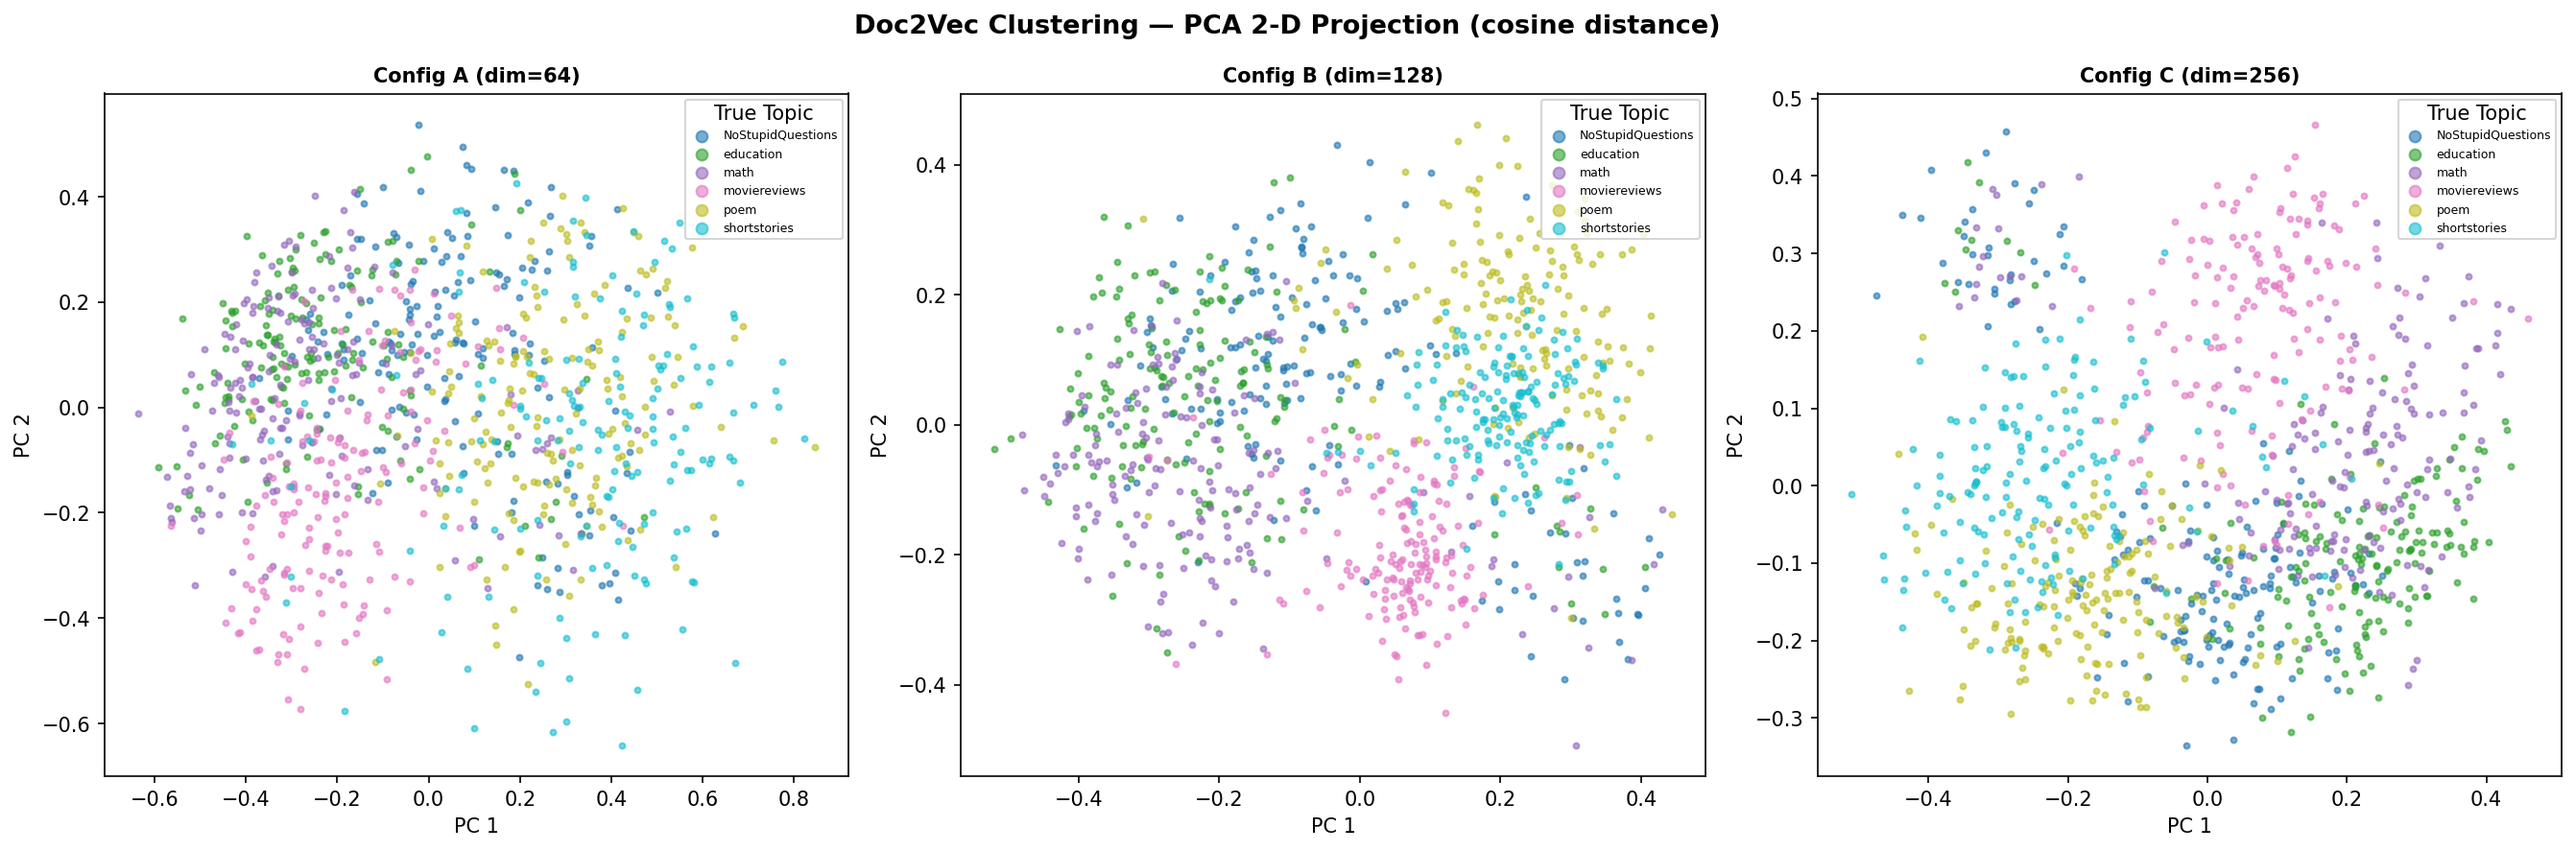
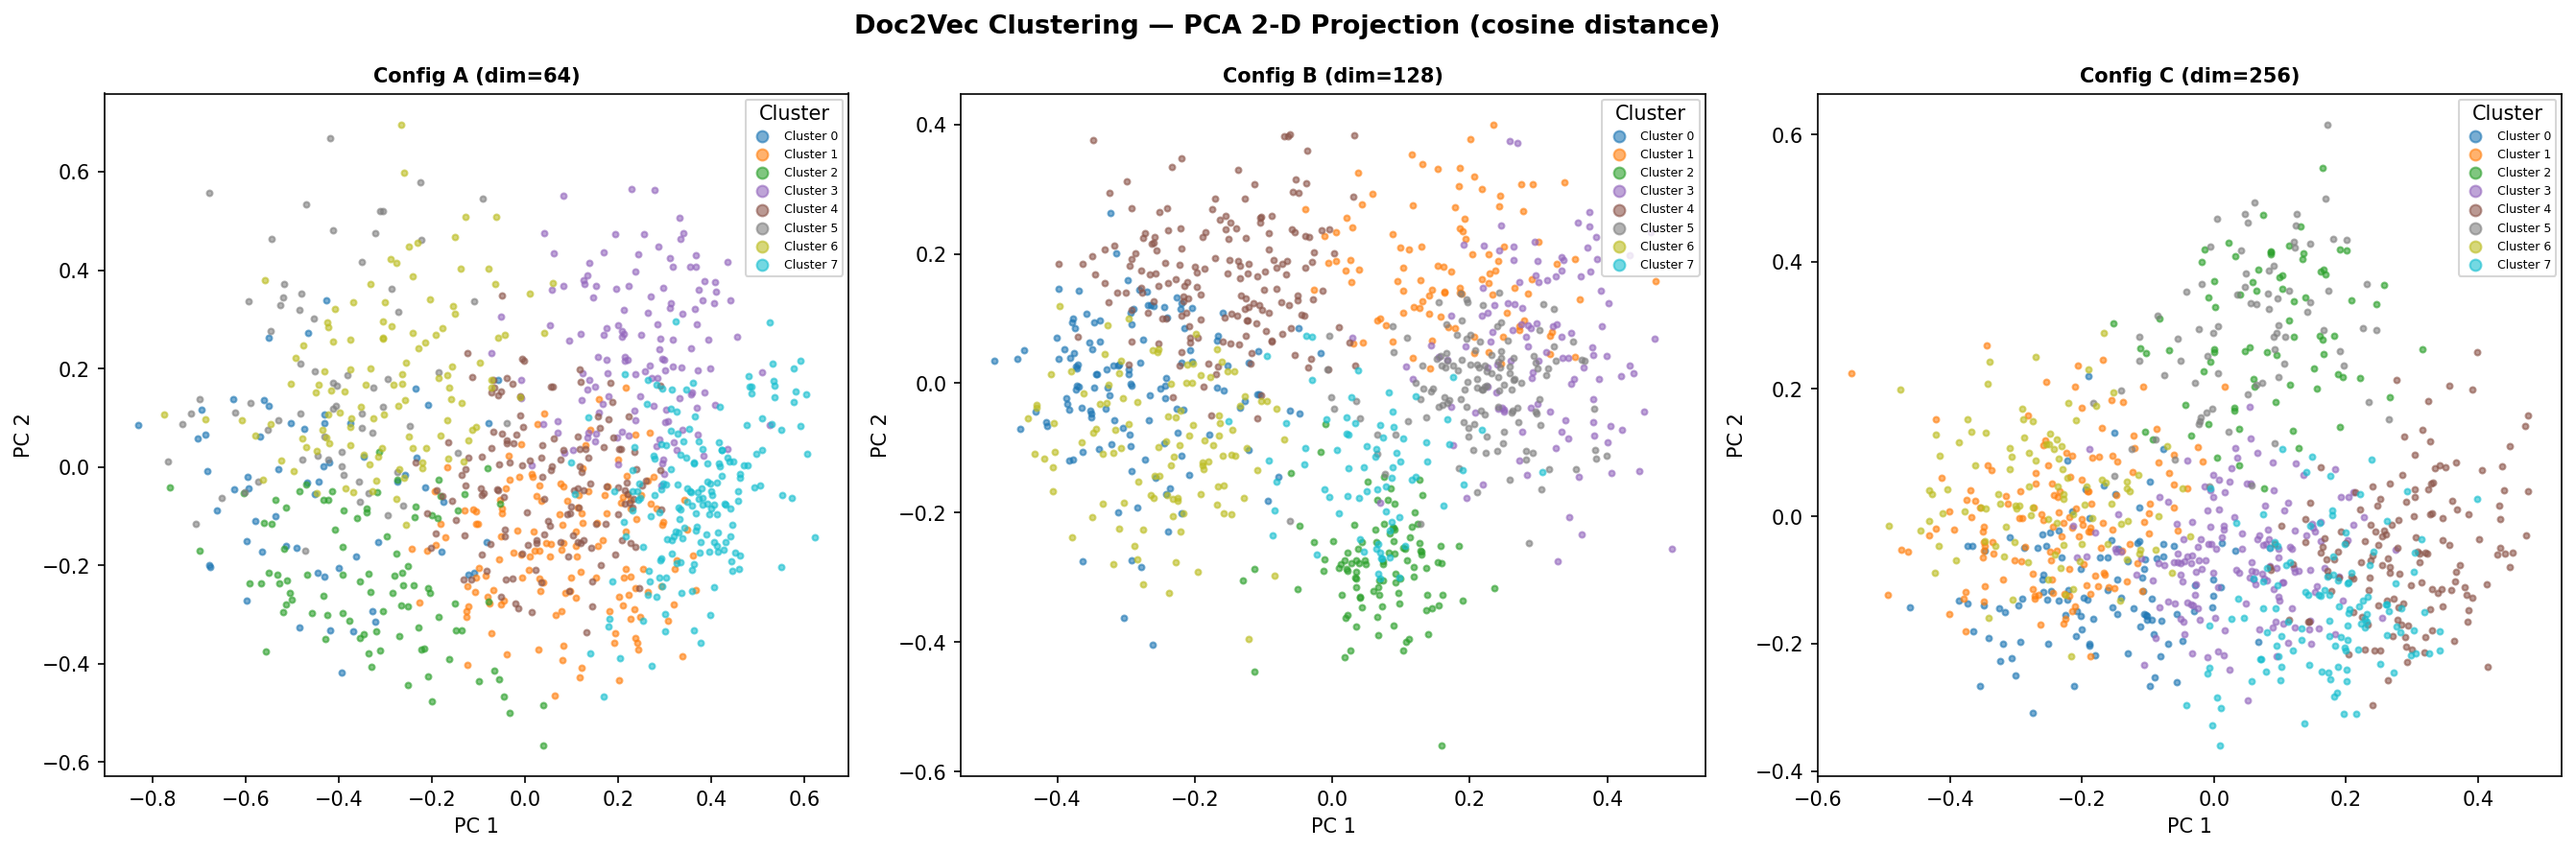
change to 8 clusters

diff --git a/doc2vec.py b/doc2vec.py
@@ -28,7 +28,7 @@ CONFIGS = {
         vector_size=64,
         min_count=2,
         epochs=20,
-        dm=1,        # PV-DM  — uses word-order context
+        dm=1,
         window=5,
         workers=4,
         seed=42,
@@ -37,13 +37,13 @@ CONFIGS = {
         vector_size=128,
         min_count=3,
         epochs=40,
-        dm=0,        # PV-DBOW — faster; often stronger on short social-media posts
+        dm=0,
         workers=4,
         seed=42,
     ),
     "Config C (dim=256)": dict(
         vector_size=256,
-        min_count=1,  # keep rare / niche vocabulary
+        min_count=1,
         epochs=60,
         dm=1,
         window=8,
@@ -53,11 +53,10 @@ CONFIGS = {
 }
 
 def build_tagged_docs(df: pd.DataFrame) -> list[TaggedDocument]:
-    """Convert each row into a gensim TaggedDocument keyed by its integer index."""
     tagged = []
     for idx, row in df.iterrows():
         text = str(row["SELFTEXT"]) if pd.notna(row["SELFTEXT"]) else ""
-        tokens = simple_preprocess(text, deacc=True)   # lowercase, strips punctuation and numbers
+        tokens = simple_preprocess(text, deacc=True)
         tagged.append(TaggedDocument(words=tokens, tags=[str(idx)]))
     return tagged
 
@@ -67,7 +66,6 @@ def train_doc2vec(tagged_docs: list[TaggedDocument], config: dict) -> Doc2Vec:
     model.train(tagged_docs, total_examples=model.corpus_count, epochs=model.epochs)
     return model
 
-
 def extract_vectors(model: Doc2Vec, tagged_docs: list[TaggedDocument]) -> np.ndarray:
     """Return L2-normalised document vectors.
     After L2 normalisation, Euclidean distance == cosine distance,
@@ -75,17 +73,16 @@ def extract_vectors(model: Doc2Vec, tagged_docs: list[TaggedDocument]) -> np.nda
     vecs = np.array([model.dv[doc.tags[0]] for doc in tagged_docs])
     return normalize(vecs, norm="l2")
 
-N_CLUSTERS = 6
+N_CLUSTERS = 8
 def cluster_vectors(vecs: np.ndarray):
     km = KMeans(n_clusters=N_CLUSTERS, random_state=42, n_init=10)
     return km.fit_predict(vecs), km
 
-
 def evaluate(vecs: np.ndarray, labels: np.ndarray) -> dict:
-    sil = silhouette_score(vecs, labels, metric="cosine") # how similar a data point is to its own cluster  compared to other clusters (higher -> better)
-    db  = davies_bouldin_score(vecs, labels) # the average similarity measure of each cluster with its most similar cluster (lower -> better)
+    sil = silhouette_score(vecs, labels, metric="cosine")   # how similar a data point is to its own cluster  compared to other clusters, higher -> better
+    db  = davies_bouldin_score(vecs, labels)                # the average similarity measure of each cluster with its most similar cluster, lower  -> better
 
-    cohesions = [] # average cosine similarity between all pairs of documents within the same cluster(higher -> better)
+    cohesions = []  # avg cosine similarity within each cluster, higher -> better
     for c in np.unique(labels):
         idx = np.where(labels == c)[0]
         if len(idx) < 2:
@@ -103,31 +100,26 @@ def evaluate(vecs: np.ndarray, labels: np.ndarray) -> dict:
         "n_clusters":       int(np.unique(labels).size),
     }
 
-
-def plot_clusters(vecs: np.ndarray, pred_labels: np.ndarray, true_labels: np.ndarray,
+def plot_clusters(vecs: np.ndarray, labels: np.ndarray,
                   title: str, ax: plt.Axes, sample: int = 2000):
-
     # subsample for large datasets
     if len(vecs) > sample:
         idx = np.random.choice(len(vecs), sample, replace=False)
-        vecs, pred_labels, true_labels = vecs[idx], pred_labels[idx], true_labels[idx]
+        vecs, labels = vecs[idx], labels[idx]
 
-    # PCA to 2D and assign colors for visualization
+    # PCA to 2D for visualization
     proj = PCA(n_components=2, random_state=42).fit_transform(vecs)
-    unique_topics = sorted(set(true_labels))
-    topic_colors = {t: cm.tab10(i / max(len(unique_topics) - 1, 1))
-                    for i, t in enumerate(unique_topics)}
 
-    
-    for topic in unique_topics:
-        mask = true_labels == topic # boolean array 
+    for c in range(N_CLUSTERS):
+        mask = labels == c
         ax.scatter(proj[mask, 0], proj[mask, 1], s=8, alpha=0.6,
-                   color=topic_colors[topic], label=topic)
+                   color=cm.tab10(c / max(N_CLUSTERS - 1, 1)),
+                   label=f"Cluster {c}")
 
     ax.set_title(title, fontsize=10, fontweight="bold")
     ax.set_xlabel("PC 1")
     ax.set_ylabel("PC 2")
-    ax.legend(fontsize=6, markerscale=2, loc="upper right", title="True Topic")
+    ax.legend(fontsize=6, markerscale=2, loc="upper right", title="Cluster")
 
 STOPWORDS = {
     "the","a","an","is","it","in","on","of","to","and","or","for","with",
@@ -141,7 +133,6 @@ STOPWORDS = {
     "some","any","other","them","our","through","before","only","still",
     "where","really","something","should","around","back","again","way",
     "me","no","off","never","am","myself","these"
-
 }
 
 def top_terms_per_cluster(df: pd.DataFrame, labels: np.ndarray, n_terms: int = 15) -> dict:
@@ -154,26 +145,27 @@ def top_terms_per_cluster(df: pd.DataFrame, labels: np.ndarray, n_terms: int = 1
         filtered = [t for t in tokens if t not in STOPWORDS and len(t) > 1]
 
         if not filtered:
-            result[c] = {"_empty_cluster": len(idx)}  # report size even if no terms
+            result[c] = {"_empty_cluster": len(idx)}
         else:
             result[c] = pd.Series(filtered).value_counts().head(n_terms).to_dict()
     return result
 
 def main():
-    
     con = get_connection()
     posts_df = get_posts(con)
     con.close()
 
-    # drop nulls 
+    # drop nulls
     posts_df = posts_df[posts_df["SELFTEXT"].notna()].reset_index(drop=True)
-    
+    posts_df = posts_df[posts_df["SELFTEXT"] != "None"].reset_index(drop=True)
+    posts_df = posts_df[posts_df["SELFTEXT"].str.strip() != ""].reset_index(drop=True)
+    print(f"Total posts after cleaning: {len(posts_df)}")
 
     # Build tagged documents
     print("\nBuilding tagged documents...")
     tagged_docs = build_tagged_docs(posts_df)
 
-    # ── Train → cluster → evaluate ─────────────────────────────────────────
+    # train -> cluster -> evaluate
     all_vectors = {}
     all_labels  = {}
     all_results = {}
@@ -198,7 +190,7 @@ def main():
         all_labels[name]  = labels
         all_results[name] = metrics
 
-    # Summary table 
+    # Summary table
     metrics_df = pd.DataFrame(all_results).T
     print("\n\n" + "="*70)
     print("COMPARATIVE EVALUATION SUMMARY")
@@ -213,8 +205,6 @@ def main():
     for name in CONFIGS:
         print(f"\n--- {name} ---")
         terms = top_terms_per_cluster(posts_df, all_labels[name])
-
-        # print cluster size distribution
         for c in sorted(terms.keys()):
             idx = np.where(all_labels[name] == c)[0]
             top = ", ".join(list(terms[c].keys())[:8])
@@ -226,16 +216,14 @@ def main():
         "Doc2Vec Clustering — PCA 2-D Projection (cosine distance)",
         fontsize=13, fontweight="bold"
     )
-    true_labels = posts_df["TOPIC"].values if "TOPIC" in posts_df.columns else np.zeros(len(posts_df))
 
     for ax, (name, vecs) in zip(axes, all_vectors.items()):
-        short = name.split("—")[0].strip()
-        plot_clusters(vecs, all_labels[name], true_labels, short, ax)
+        plot_clusters(vecs, all_labels[name], name, ax)
 
     plt.tight_layout()
     out_path = "./images/doc2vec_clusters.png"
     plt.savefig(out_path, dpi=150, bbox_inches="tight")
-    print(f"\nCluster plot saved {out_path}")
+    print(f"\nCluster plot saved → {out_path}")
 
     # Best-config recommendation
     # composite = silhouette + avg_intra_cosine − 0.3 × davies_bouldin
@@ -250,7 +238,7 @@ def main():
     best = max(composite, key=composite.get)
 
     print("\n\n" + "="*70)
-    print("  RECOMMENDATION")
+    print("RECOMMENDATION")
     print("="*70)
     print(f"\n  Best configuration : {best}")
     print(f"  Composite scores   : {composite}")
